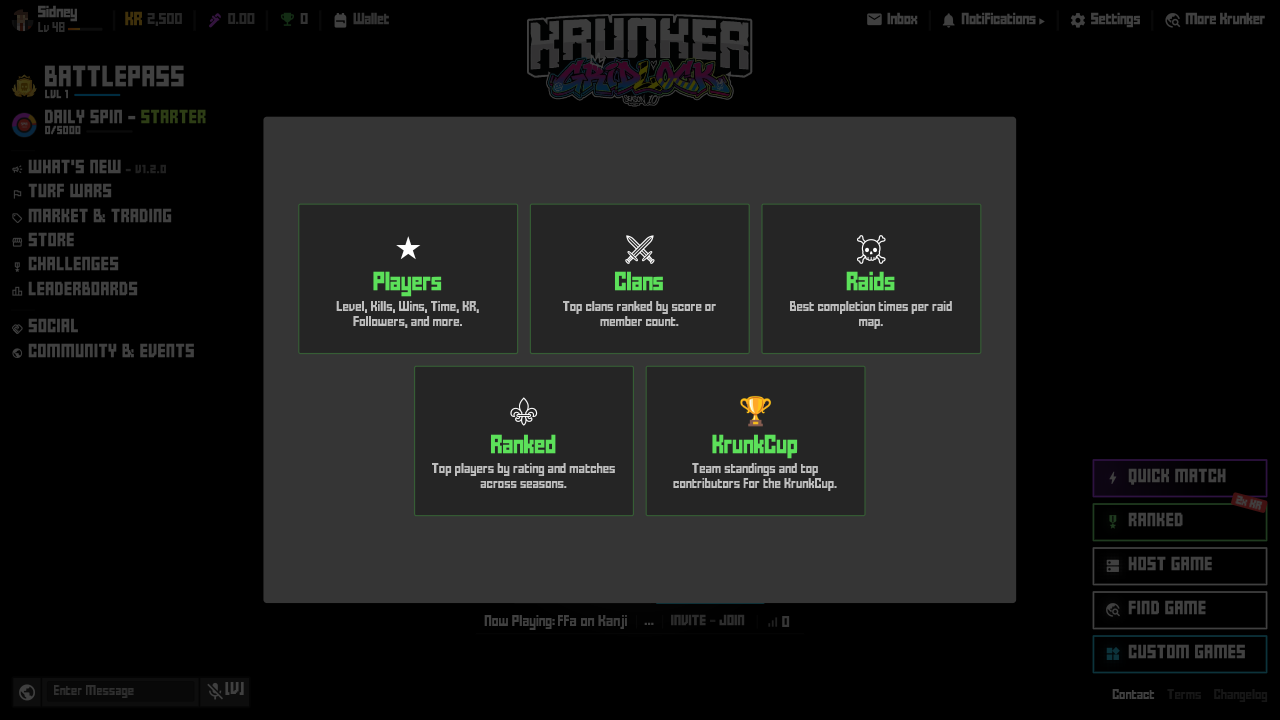
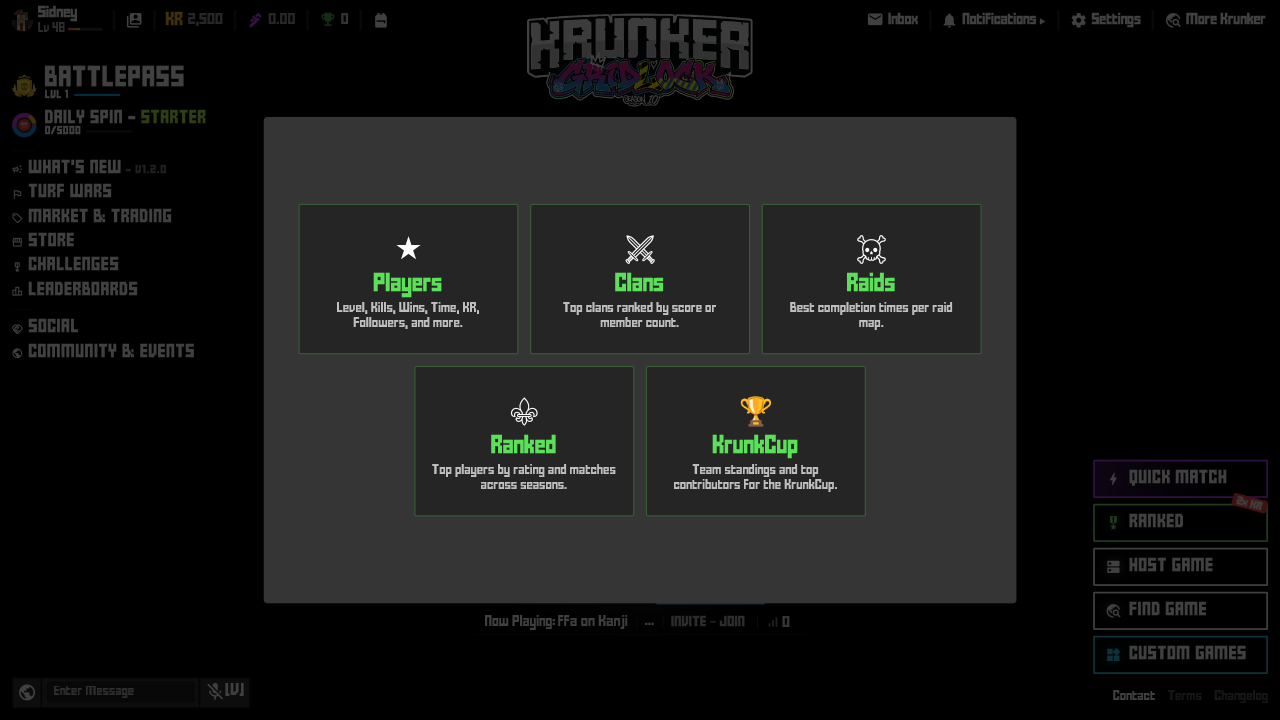
Menu: the scaled page covers the window's right and bottom edge
The page is scaled to fit the window by menu_scale_base, with the scale printed to 3
decimals as window.scaleBase() writes it. That rounding can sit a fraction below the exact
fit (0.627 for 0.62745). The scaled #uiBase is a transformed layer and the engine clips
everything inside it to its box, box-shadow rings included, so the window's right and
bottom strip was never covered and the 3D scene showed there (the menu's bottom-right
pixels, and at boot the same strip under the curtain).

The layer's box is now whole CSS px, rounded up, at the printed scale (width =
ceil(w / scale), height = ceil(h / scale)), so the scaled layer always reaches the window's
right and bottom edges. The box-shadow fallbacks (the shade and boot curtain rings) are
gone: they were clipped by that same layer and were not needed.

What moves: only what #uiBase anchors to its far (right and bottom) edges, by up to a
pixel. Those regions are visible in the menu uidiff scenarios: main-menu (action-cards,
logo, header-right, class-preview, no-connect-button, click-to-play), main-menu-buffs,
main-menu-popular, main-menu-krsale, main-menu-double-xp, main-menu-nowplaying-long,
main-menu-classbox-skin, menu-mobile, menu-mobile-portrait, boot-curtain (instructions),
community, customize-class (toolbar), guide, kn-main-menu-connect, kn-menu-official-header,
kn-menu-official-guest, kn-menu-popular-official, kn-lb-grid, kn-ranked-error,
[…]

diff --git a/client/tests/menu_bleed_e2e.py b/client/tests/menu_bleed_e2e.py
@@ -1,0 +1,194 @@
+#!/usr/bin/env python3
+"""The menu covers the 3D scene: no scene pixels show at the window's right or bottom edge.
+
+  python3 -I client/tests/menu_bleed_e2e.py BUILD_DIR     (native, run from the repository root)
+
+#uiBase is the menu page, scaled to fit the window (menu_scale_base, client/src/ui/menu_ui.c).
+The menu's shade is translucent over the world, so a frame with the page drawn is the world-only
+frame (KRUNKNATIVE_HIDE_UI=1) times the page's ratio: menu / world is the shade wherever the page
+covers the window, and something else wherever the 3D scene shows through. A page whose scaled box
+stops short of the window's right or bottom edge (a scale rounded down, or a fractional box edge
+that the engine snaps down to whole CSS px) leaves the last columns or rows at the world's own
+brightness: that was the menu's bottom-right strip.
+
+Checks, per window size / UI scale, at startup frames, and across live window resizes:
+- the last three columns (the right edge) and rows (the bottom edge) carry no more menu / world
+  ratio than the line 4 px inside them, on every position along the edge whose 4 px inside are
+  flat (page text, buttons, bars and panel edges are skipped), the scene is at most SHARE of them;
+- the frame has the requested size (the resize really happened).
+
+Prints PASS/FAIL lines; exit code 0 only when everything passed.
+"""
+import os
+import shutil
+import subprocess
+import sys
+import tempfile
+import warnings
+
+ROOT = os.path.dirname(os.path.dirname(os.path.dirname(os.path.abspath(__file__))))
+BUILD = os.path.abspath(sys.argv[1]) if len(sys.argv) > 1 else os.path.join(ROOT, "cmake-build-debug")
+CACHE = os.path.expanduser("~/.cache")
+WORK = tempfile.mkdtemp(prefix="kn-menu-bleed-", dir=CACHE if os.path.isdir(CACHE) else None)
+INSIDE = 4             # px from the edge of the reference line the edge lines are compared with
+EDGE_LINES = 3         # the last columns / rows checked (the edge lines)
+FLAT = 4               # px inside the reference line whose ratio must be flat for a position to count
+SELECT = 0.06          # a position is flat when its inside ratio varies less than this (relative)
+SHARE = 0.2            # a line whose pixels are this much the 3D scene (median share) is a leak
+SCENE_FIT = 6          # a pixel is scene when page-to-world mix fits it within this many levels per channel
+MIN_POSITIONS = 20     # flat positions an edge needs to be measured
+WORLD_MIN = 150        # world pixels this dim (sum of RGB) have no stable ratio: skipped
+CAPTURE_FRAMES = 60
+STARTUP_FRAMES = [1, 2, 3, 5, 8, 13, 21, 34]
+NATIVE_CASES = [("1280x720", 0.7), ("1366x768", 0.7), ("1920x1080", 0.7), ("1277x713", 0.7),
+                ("2560x1440", 0.7), ("1501x847", 0.7), ("1920x1009", 0.7), ("1600x900", 0.73),
+                ("1280x720", 0.3), ("1280x720", 0.65), ("1920x1080", 1.0), ("1366x768", None)]
+# a window resized after the menu is up: from, to (UI scale 0.7)
+RESIZES = [("1280x720", "1920x1080"), ("1920x1080", "1366x768"), ("1280x720", "1277x713"),
+           ("1366x768", "2560x1440")]
+results = []
+warnings.filterwarnings("ignore", category=RuntimeWarning)  # NaN ratios (dark or off-screen world) are expected
+
+
+def check(name, ok, detail=""):
+    ok = bool(ok)
+    results.append(ok)
+    print(f"{'PASS' if ok else 'FAIL'}  {name}{('  -- ' + detail) if detail else ''}", flush=True)
+
+
+def load_rgb(path):
+    import numpy as np
+    from PIL import Image
+    return np.asarray(Image.open(path).convert("RGB"), dtype=float)
+
+
+def side_check(menu, world):
+    """(measured, shares, detail) for the right edge of two RGB frames (rows x columns x 3): the last
+    EDGE_LINES columns against the column INSIDE px in, on the rows where the menu is flat over the
+    FLAT columns before the reference and the world is flat over the edge (so the two runs' worlds,
+    which may load a few textures apart, agree there). Per edge pixel, the scene's share is how far
+    its colour lies from the page's own colour toward the world's, when that mix fits the pixel
+    within SCENE_FIT levels per channel (a grey page underlay does not fit, and is not scene). The
+    share is the median over the row's pixels in the line; a leak is a line whose share is above
+    SHARE. A page element darker than the shade is not a leak."""
+    import numpy as np
+    H, W, _ = menu.shape
+    ref_col = W - INSIDE
+    msum, wsum = menu.sum(2), world.sum(2)
+    with np.errstate(invalid="ignore", divide="ignore"):
+        mprof = msum[:, ref_col - FLAT + 1:ref_col + 1]
+        wprof = wsum[:, W - INSIDE - FLAT:W]
+        mmed = np.nanmedian(mprof, axis=1, keepdims=True)
+        wmed = np.nanmedian(wprof, axis=1, keepdims=True)
+        flat = (np.abs(mprof / mmed - 1) < SELECT).all(axis=1) & \
+               (np.abs(wprof / wmed - 1) < SELECT).all(axis=1) & (wmed[:, 0] > WORLD_MIN)
+    n = int(flat.sum())
+    if n < MIN_POSITIONS:
+        return False, [], f"{n} flat positions (need {MIN_POSITIONS}): not measured"
+    ref = menu[flat, ref_col, :]                       # the page's colour in each row (flat rows)
+    shares = []
+    for k in range(1, EDGE_LINES + 1):
+        mv = menu[flat, W - k, :]
+        wv = world[flat, W - k, :]
+        d = wv - ref                                   # the world's lift over the page, per channel
+        dd = (d * d).sum(1)
+        usable = np.sqrt(dd) > 0.25 * wv.sum(1)        # the world is clearly brighter than the page
+        with np.errstate(invalid="ignore", divide="ignore"):
+            f = ((mv - ref) * d).sum(1) / dd           # scene share of the pixel
+            resid = np.abs(mv - (ref + f[:, None] * d)).max(1)
+        share = np.where(usable & (resid < SCENE_FIT), np.clip(f, 0.0, 1.0), 0.0)
+        shares.append(float(np.median(share[usable])) if usable.any() else 0.0)
+    worst = max(shares)
+    return True, shares, f"shares {' '.join(f'{x:.2f}' for x in shares)} ({n} positions)"
+
+
+def edge_check(menu_png, world_png, size):
+    """(ok, detail): the window size is right, and no measured edge line is mostly the 3D scene."""
+    menu, world = load_rgb(menu_png), load_rgb(world_png)
+    H, W, _ = menu.shape
+    want_w, want_h = map(int, size.split("x"))
+    if (W, H) != (want_w, want_h):
+        return False, f"frame is {W}x{H}, not {size}"
+    measured, leaks, parts = [], [], []
+    for name, (m, w) in (("right", (menu, world)), ("bottom", (menu.transpose(1, 0, 2), world.transpose(1, 0, 2)))):
+        ok, shares, detail = side_check(m, w)
+        parts.append(f"{name} {detail}")
+        if ok:
+            measured.append(name)
+            leaks += [x for x in shares if x > SHARE]
+    if not measured:
+        return False, "no edge measured; " + "; ".join(parts)
+    return not leaks, "; ".join(parts)
+
+
+def run(tag, size, scale, hide, frames, script=None):
+    """client_bin --offline headless: the frame's PNG path, or None when the client wrote none."""
+    base = os.path.join(WORK, f"{tag}-h{hide}-f{frames}")
+    cfg = os.path.join(base, "cfg", "krunknative")
+    os.makedirs(cfg, exist_ok=True)
+    with open(os.path.join(cfg, "knSettings.json"), "w") as f:
+        f.write('{"uiScaling": false}' if scale is None else '{"scaleUI": %s}' % scale)
+    png = os.path.join(base, "frame.png")
+    env = dict(os.environ, KRUNKNATIVE_HEADLESS="1", KRUNKNATIVE_AUDIO_BACKEND="null",
+               XDG_CONFIG_HOME=os.path.dirname(cfg), KRUNKNATIVE_WINDOW_SIZE=size,
+               KRUNKNATIVE_HIDE_UI=str(hide), KRUNKNATIVE_FIXED_DELTA="16",
+               KRUNKNATIVE_CAPTURE_FRAMES=str(frames), KRUNKNATIVE_SCREENSHOT=png)
+    env.pop("DISPLAY", None)
+    env.pop("WAYLAND_DISPLAY", None)
+    if script:
+        path = os.path.join(base, "input.script")
+        with open(path, "w") as f:
+            f.write(script)
+        env["KRUNKNATIVE_INPUT_SCRIPT"] = path
+    log = os.path.join(base, "client.log")
+    try:
+        with open(log, "w") as out:
+            subprocess.run([os.path.join(BUILD, "client_bin"), "--offline"], env=env, stdout=out,
+                           stderr=subprocess.STDOUT, timeout=180)
+    except subprocess.TimeoutExpired:
+        return None
+    return png if os.path.isfile(png) else None
+
+
+def pair_check(name, size, scale, frames=CAPTURE_FRAMES, script=None, final_size=None):
+    """The menu frame and its world-only frame, checked for an uncovered edge."""
+    tag = f"{size}-{'off' if scale is None else scale}-{name}"
+    menu = run(tag, size, scale, 0, frames, script)
+    world = run(tag, size, scale, 1, frames, script)
+    if menu is None or world is None:
+        check(name, False, "the client wrote no frame (see " + WORK + ")")
+        return
+    ok, detail = edge_check(menu, world, final_size or size)
+    check(name, ok, detail)
+
+
+# ---------------------------------------------------------------- native
+
+def native_main():
+    for size, scale in NATIVE_CASES:
+        label = "uiScaling off" if scale is None else f"scaleUI {scale}"
+        pair_check(f"menu covers the window at {size}, {label}", size, scale)
+    for frames in STARTUP_FRAMES:
+        pair_check(f"startup: the menu covers the window at frame {frames}", "1280x720", 0.7, frames=frames)
+    for start, end in RESIZES:
+        w, h = end.split("x")
+        script = f"0 boot\n200 resize {w} {h}\n"
+        # captured well after the resize: the page's bottom bar settles over ~1 s (a 60-frame capture
+        # still shows it mid-slide)
+        pair_check(f"resize {start} -> {end}: the menu covers the window", start, 0.7, frames=200,
+                   script=script, final_size=end)
+    return finish("menu_bleed_e2e")
+
+
+def finish(name):
+    if all(results) and not os.environ.get("KN_TEST_KEEP"):
+        shutil.rmtree(WORK, ignore_errors=True)
+    else:
+        print(f"files kept in {WORK}")
+    print(f"{name}:", "PASS" if results and all(results) else "FAIL")
+    return 0 if results and all(results) else 1
+
+
+if __name__ == "__main__":
+    os.chdir(ROOT)
+    sys.exit(native_main())

diff --git a/client/src/ui/menu_ui.c b/client/src/ui/menu_ui.c
@@ -583,23 +583,22 @@ void menu_scale_base(void) {
         snprintf(value, sizeof(value), "%.3fpx", sy < sx ? dh : h / sx);
         html_dom_set_style(body, "--ui-height", value);
     }
-    if (sy < sx) {
-        snprintf(value, sizeof(value), "scale(%.3f)", sy);
-        html_dom_set_style(base, "transform", value);
-        snprintf(value, sizeof(value), "%.3fpx", w / sy);
-        html_dom_set_style(base, "width", value);
-        fmt_number(num, sizeof(num), dh);
-        snprintf(value, sizeof(value), "%spx", num);
-        html_dom_set_style(base, "height", value);
-    } else {
-        snprintf(value, sizeof(value), "scale(%.3f)", sx);
-        html_dom_set_style(base, "transform", value);
-        fmt_number(num, sizeof(num), dw);
-        snprintf(value, sizeof(value), "%spx", num);
-        html_dom_set_style(base, "width", value);
-        snprintf(value, sizeof(value), "%.3fpx", h / sx);
-        html_dom_set_style(base, "height", value);
-    }
+    // The fit scale is printed to 3 decimals, as window.scaleBase() writes it, but that rounding
+    // can sit a fraction below the exact fit (0.627 for 0.62745). The scaled box is a transformed
+    // layer, and the engine clips everything inside it to its box (box-shadow rings included), so
+    // the box must cover the window at the printed scale: whole CSS px, rounded up. Only what the
+    // box anchors to its far edges moves, by a pixel (the 3D scene showed through the window's
+    // right and bottom strip otherwise).
+    const double fit = sy < sx ? sy : sx;
+    const double scale = round(fit * 1000.0) / 1000.0;
+    fmt_number(num, sizeof(num), ceil(w / scale));
+    snprintf(value, sizeof(value), "%spx", num);
+    html_dom_set_style(base, "width", value);
+    fmt_number(num, sizeof(num), ceil(h / scale));
+    snprintf(value, sizeof(value), "%spx", num);
+    html_dom_set_style(base, "height", value);
+    snprintf(value, sizeof(value), "scale(%.3f)", scale);
+    html_dom_set_style(base, "transform", value);
     menu_send_preview_rect();
 }
 
